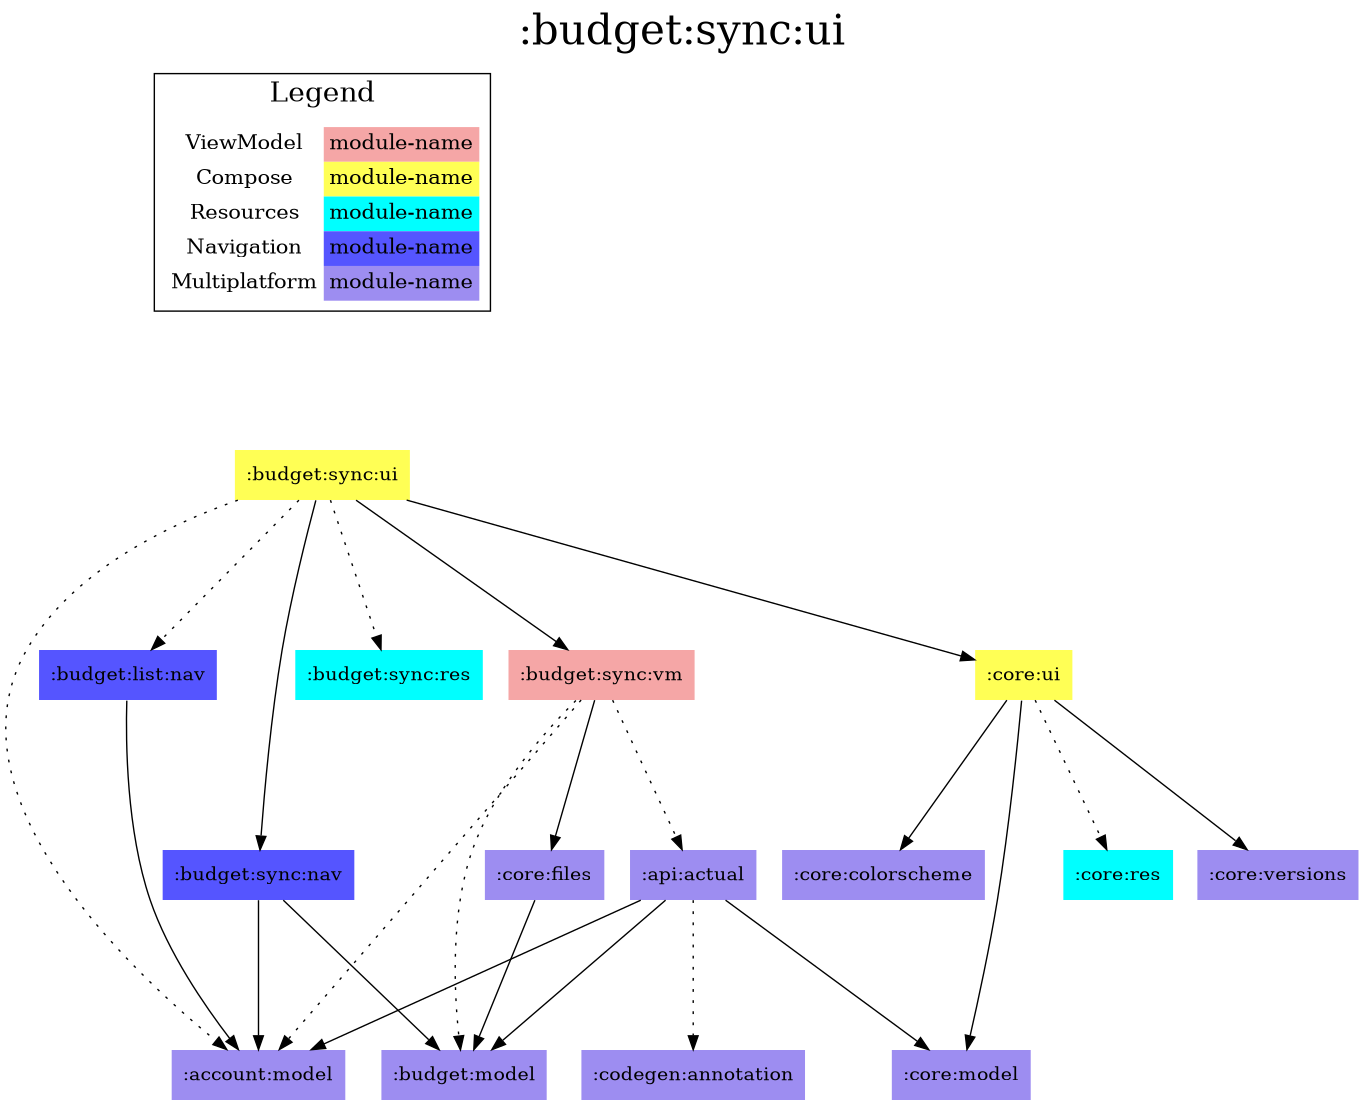
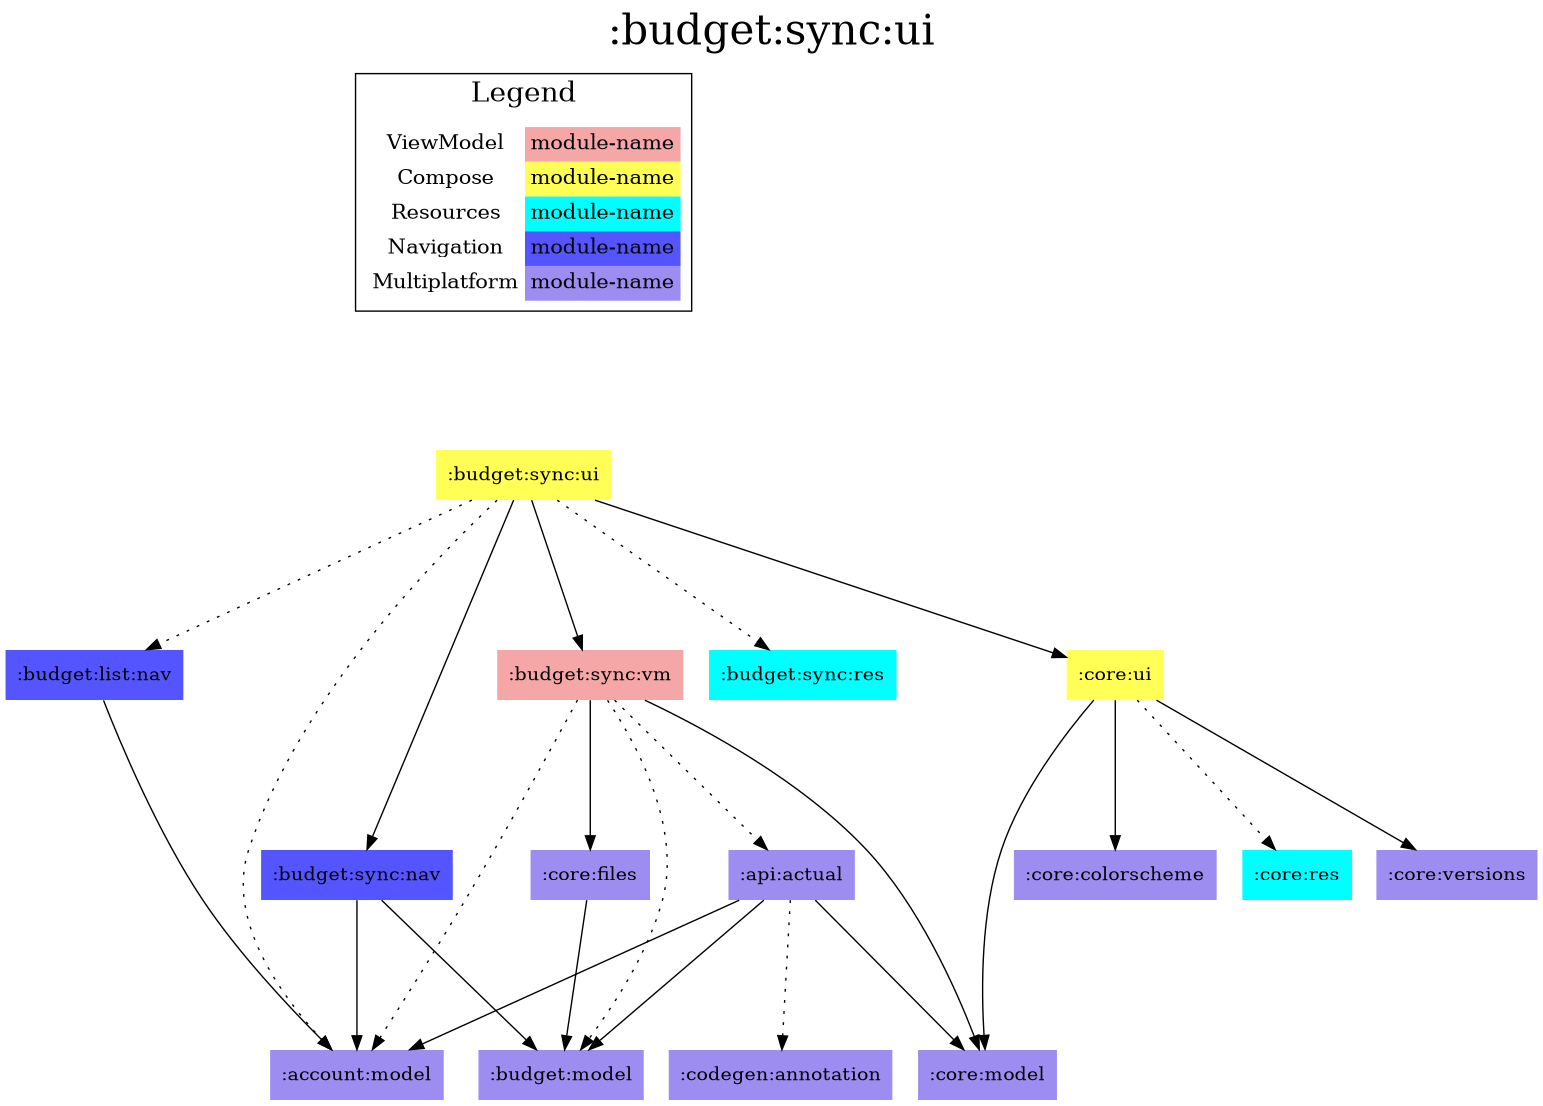
Bytes/Percent -> core:model

diff --git a/modules/budget/sync/vm/src/main/kotlin/actual/budget/sync/vm/BudgetFileDownloader.kt b/modules/budget/sync/vm/src/main/kotlin/actual/budget/sync/vm/BudgetFileDownloader.kt
@@ -5,11 +5,12 @@ import actual.api.client.ActualApisStateHolder
 import actual.api.client.SyncDownloadApi
 import actual.api.client.SyncDownloadState
 import actual.budget.model.BudgetId
-import actual.budget.sync.vm.Bytes.Companion.Zero
 import actual.budget.sync.vm.DownloadState.Done
 import actual.budget.sync.vm.DownloadState.Failure
 import actual.budget.sync.vm.DownloadState.InProgress
 import actual.core.files.DatabaseDirectory
+import actual.core.model.Bytes.Companion.Zero
+import actual.core.model.bytes
 import alakazam.kotlin.core.CoroutineContexts
 import alakazam.kotlin.core.requireMessage
 import alakazam.kotlin.logging.Logger

diff --git a/modules/budget/sync/ui/src/main/kotlin/actual/budget/sync/ui/SyncBudgetScreen.kt b/modules/budget/sync/ui/src/main/kotlin/actual/budget/sync/ui/SyncBudgetScreen.kt
@@ -3,11 +3,11 @@ package actual.budget.sync.ui
 import actual.account.model.LoginToken
 import actual.budget.model.BudgetId
 import actual.budget.sync.res.BudgetSyncStrings
-import actual.budget.sync.vm.Percent
 import actual.budget.sync.vm.SyncBudgetViewModel
 import actual.budget.sync.vm.SyncStep
 import actual.budget.sync.vm.SyncStepState
-import actual.budget.sync.vm.percent
+import actual.core.model.Percent
+import actual.core.model.percent
 import actual.core.ui.LocalTheme
 import actual.core.ui.PreviewScreen
 import actual.core.ui.PrimaryTextButton

diff --git a/modules/budget/sync/vm/src/test/kotlin/actual/budget/sync/vm/BudgetFileDownloaderTest.kt b/modules/budget/sync/vm/src/test/kotlin/actual/budget/sync/vm/BudgetFileDownloaderTest.kt
@@ -11,6 +11,7 @@ import actual.budget.sync.vm.DownloadState.Failure
 import actual.budget.sync.vm.DownloadState.InProgress
 import actual.core.model.Protocol
 import actual.core.model.ServerUrl
+import actual.core.model.bytes
 import actual.test.emptyMockEngine
 import actual.test.enqueueResponse
 import actual.test.plusAssign

diff --git a/modules/budget/sync/vm/src/main/kotlin/actual/budget/sync/vm/SyncBudgetViewModel.kt b/modules/budget/sync/vm/src/main/kotlin/actual/budget/sync/vm/SyncBudgetViewModel.kt
@@ -3,6 +3,7 @@ package actual.budget.sync.vm
 import actual.account.model.LoginToken
 import actual.api.model.sync.UserFile
 import actual.budget.model.BudgetId
+import actual.core.model.Percent
 import alakazam.kotlin.logging.Logger
 import androidx.compose.runtime.collectAsState
 import androidx.compose.runtime.getValue

diff --git a/modules/core/model/src/commonTest/kotlin/actual/core/model/BytesTest.kt b/modules/core/model/src/commonTest/kotlin/actual/core/model/BytesTest.kt
@@ -1,6 +1,6 @@
-package actual.budget.sync.vm
+package actual.core.model
 
-import kotlin.test.Test
+import org.junit.Test
 import kotlin.test.assertEquals
 import kotlin.test.assertTrue
 

diff --git a/modules/core/model/src/commonMain/kotlin/actual/core/model/Bytes.kt b/modules/core/model/src/commonMain/kotlin/actual/core/model/Bytes.kt
@@ -1,4 +1,4 @@
-package actual.budget.sync.vm
+package actual.core.model
 
 @JvmInline
 value class Bytes(val numBytes: Long) : Comparable<Bytes> {

diff --git a/modules/budget/sync/vm/src/main/kotlin/actual/budget/sync/vm/SyncStepState.kt b/modules/budget/sync/vm/src/main/kotlin/actual/budget/sync/vm/SyncStepState.kt
@@ -1,5 +1,6 @@
 package actual.budget.sync.vm
 
+import actual.core.model.Percent
 import androidx.compose.runtime.Immutable
 
 @Immutable

diff --git a/modules/budget/sync/vm/src/main/kotlin/actual/budget/sync/vm/DownloadState.kt b/modules/budget/sync/vm/src/main/kotlin/actual/budget/sync/vm/DownloadState.kt
@@ -1,5 +1,6 @@
 package actual.budget.sync.vm
 
+import actual.core.model.Bytes
 import okio.Path
 
 sealed interface DownloadState {

diff --git a/modules/core/model/src/commonMain/kotlin/actual/core/model/Percent.kt b/modules/core/model/src/commonMain/kotlin/actual/core/model/Percent.kt
@@ -1,4 +1,4 @@
-package actual.budget.sync.vm
+package actual.core.model
 
 import kotlin.math.abs
 import kotlin.math.roundToInt
